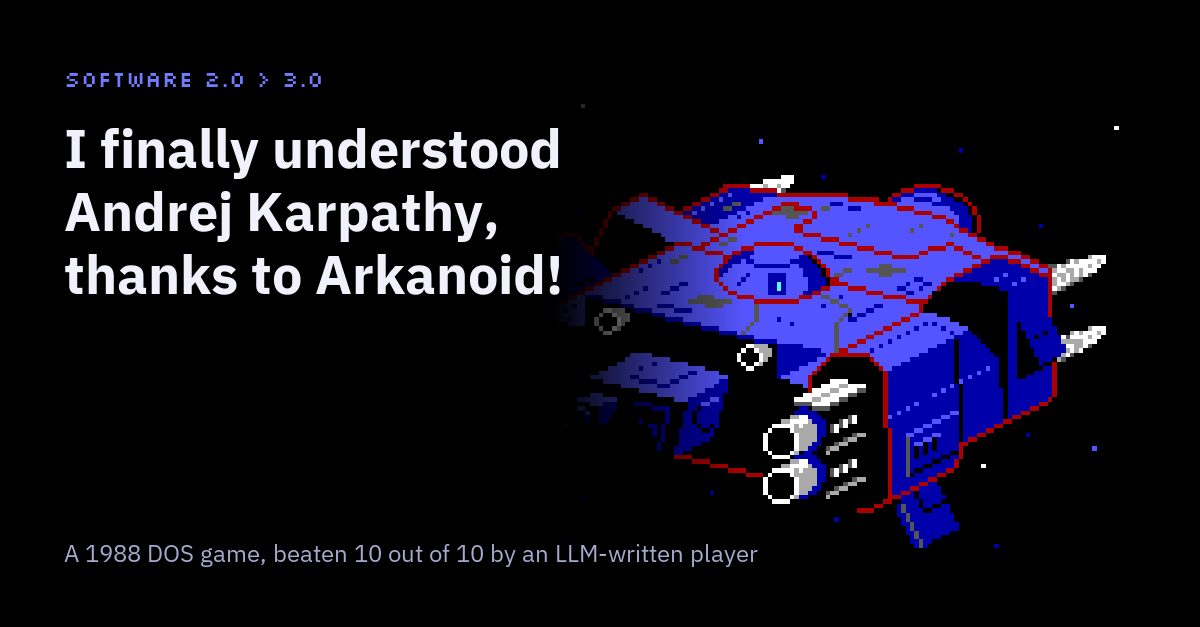
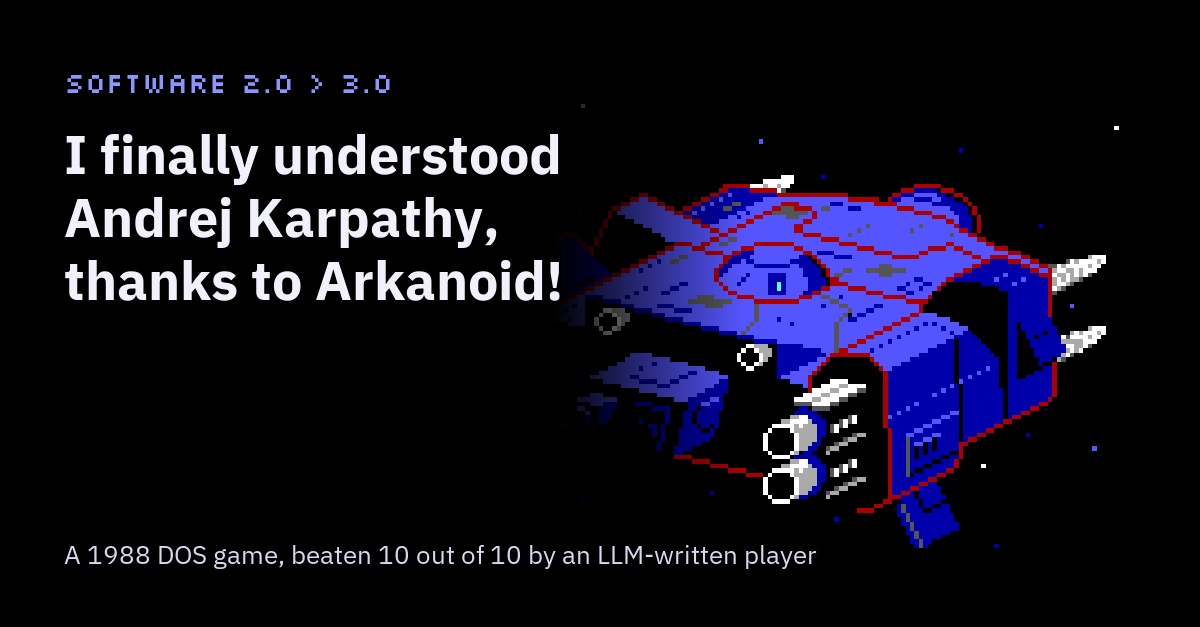
Covers: brighter captions, LLM badge, square 'wrote' cover for the feed
Applies Gemini's legibility review: higher-contrast and larger captions,
a bold LLM badge instead of small pixel text, and a 1080x1080 version of
'Software 3.0 wrote Software 1.0' with the headline for the LinkedIn post.

Claude-Session: https://claude.ai/code/session_01U2d8sNUBfNtSae4DrM3gZD

Changed region(s): [[0.0617, 0.1818, 0.4625, 0.4848], [0.0617, 0.8485, 0.6783, 0.9091], [0.0308, 0.1212, 0.3392, 0.1515]]

diff --git a/docs/article/covers/make_covers.py b/docs/article/covers/make_covers.py
@@ -12,8 +12,8 @@ OUT.mkdir(parents=True, exist_ok=True)
 
 NAVY = (11, 13, 36)
 INK = (240, 241, 250)
-MUTED = (165, 170, 205)
-ACCENT = (110, 124, 255)   # EGA-like blue
+MUTED = (214, 217, 238)
+ACCENT = (138, 150, 255)   # EGA-like blue, lightened for small text
 SECOND = (229, 122, 228)   # EGA-like magenta
 PAPER = (246, 246, 242)
 DARK_INK = (22, 23, 43)
@@ -77,10 +77,10 @@ def cover_final(name, size, headline, kicker, footer, text_w):
     im = Image.composite(Image.new("RGB", size, BG), im, fade)
     d = ImageDraw.Draw(im)
     pad = 64
-    d.text((pad, pad), kicker, font=pixel(22), fill=ACCENT)
-    y = text_block(d, (pad, pad + 48), headline, plex(54 if W > H else 76), text_w, INK)
+    d.text((pad, pad), kicker, font=pixel(28), fill=ACCENT)
+    y = text_block(d, (pad, pad + 54), headline, plex(54 if W > H else 76), text_w, INK)
     fy = H - pad - 26 if W > H else y + 24
-    d.text((pad, fy), footer, font=plex(24 if W > H else 30, b"Regular"), fill=MUTED)
+    d.text((pad, fy), footer, font=plex(26 if W > H else 32, b"Regular"), fill=MUTED)
     im.save(OUT / name)
 
 
@@ -108,32 +108,51 @@ def cover_split(name):
     im.save(OUT / name)
 
 
-def cover_wrote(name):
-    W, H = 1200, 627
-    im = Image.new("RGB", (W, H), NAVY)
+def badge(d, center, text, font):
+    w = d.textlength(text, font=font)
+    cx, cy = center
+    d.rounded_rectangle([cx - w / 2 - 16, cy - font.size * 0.75, cx + w / 2 + 16, cy + font.size * 0.75],
+                        font.size, fill=ACCENT)
+    d.text((cx - w / 2, cy - font.size * 0.62), text, font=font, fill=NAVY)
+
+
+def cover_wrote(name, size=(1200, 627)):
+    W, H = size
+    sq = W == H
+    im = Image.new("RGB", size, NAVY)
     d = ImageDraw.Draw(im)
-    d.text((64, 52), "Software 3.0 wrote Software 1.0", font=plex(52), fill=INK)
+    pad = 64
+    y = text_block(d, (pad, 52 if not sq else 80), "Software 3.0 wrote Software 1.0",
+                   plex(52 if not sq else 78), W - 2 * pad, INK, 1.12)
     # Page with the task.
-    px, py, pw, ph = 64, 170, 300, 360
+    pw, ph = (300, 360) if not sq else (330, 420)
+    px, py = pad, (170 if not sq else y + 70)
     d.rounded_rectangle([px, py, px + pw, py + ph], 10, fill=PAPER)
-    d.text((px + 24, py + 22), "TASK.md", font=pixel(22), fill=ACCENT)
-    text_block(d, (px + 24, py + 62), "Figure out how to play and write a player program.",
-               plex(22, b"SemiBold"), pw - 48, DARK_INK, 1.25)
+    d.text((px + 24, py + 22), "TASK.md", font=pixel(24), fill=(70, 84, 220))
+    text_block(d, (px + 24, py + 64), "Figure out how to play and write a player program.",
+               plex(24, b"SemiBold"), pw - 48, DARK_INK, 1.25)
     for i in range(7):
-        y = py + 190 + i * 22
-        d.line([(px + 24, y), (px + pw - 24 - (i % 3) * 40, y)], fill=(200, 202, 215), width=6)
-    d.text((px, py + ph + 16), "1 page of text", font=plex(22, b"Regular"), fill=MUTED)
-    # Arrow with LLM label.
-    ax0, ax1, ay = px + pw + 40, 700, py + ph // 2
-    d.line([(ax0, ay), (ax1 - 18, ay)], fill=ACCENT, width=6)
-    d.polygon([(ax1, ay), (ax1 - 26, ay - 16), (ax1 - 26, ay + 16)], fill=ACCENT)
-    d.text(((ax0 + ax1) // 2 - 22, ay - 52), "LLM", font=pixel(26), fill=ACCENT)
-    # Game frame played by the plain-code player.
-    fr = Image.open(IMG / "researcher_round18.png").crop((32, 0, 228, 200)).resize((353, 360), Image.NEAREST)
-    fx, fy = 740, py
+        ly = py + ph - 170 + i * 22
+        d.line([(px + 24, ly), (px + pw - 24 - (i % 3) * 40, ly)], fill=(200, 202, 215), width=6)
+    cap = plex(26 if not sq else 30, b"SemiBold")
+    d.text((px, py + ph + 16), "1 page of text", font=cap, fill=MUTED)
+    # Game frame (playfield only) played by the plain-code player.
+    fh = ph
+    fr = Image.open(IMG / "researcher_round18.png").crop((32, 0, 228, 200))
+    fr = fr.resize((int(fr.width * fh / fr.height), fh), Image.NEAREST)
+    fx, fy = W - pad - fr.width, py
     im.paste(fr, (fx, fy))
     d.rectangle([fx - 2, fy - 2, fx + fr.width + 2, fy + fr.height + 2], outline=(60, 64, 110), width=2)
-    d.text((fx, fy + fr.height + 16), "plain code, no LLM: 10 wins of 10", font=plex(22, b"Regular"), fill=MUTED)
+    d.text((fx, fy + fr.height + 16), "plain code, no LLM:", font=cap, fill=MUTED)
+    d.text((fx, fy + fr.height + 16 + int(cap.size * 1.25)), "10 wins of 10", font=cap, fill=INK)
+    # Arrow with an LLM badge.
+    ax0, ax1, ay = px + pw + 24, fx - 24, py + ph // 2
+    d.line([(ax0, ay), (ax1 - 18, ay)], fill=ACCENT, width=6)
+    d.polygon([(ax1, ay), (ax1 - 26, ay - 16), (ax1 - 26, ay + 16)], fill=ACCENT)
+    badge(d, ((ax0 + ax1) // 2, ay - 48), "LLM", plex(28))
+    if sq:
+        text_block(d, (pad, H - 150), "I finally understood Andrej Karpathy, thanks to Arkanoid!",
+                   plex(36, b"SemiBold"), W - 2 * pad, ACCENT, 1.2)
     im.save(OUT / name)
 
 
@@ -148,4 +167,5 @@ cover_final("cover-final-en-square.png", (1080, 1080),
             "SOFTWARE 2.0 > 3.0", "A 1988 DOS game, beaten 10 out of 10", 950)
 cover_split("cover-split-en.png")
 cover_wrote("cover-wrote-en.png")
+cover_wrote("cover-wrote-en-square.png", (1080, 1080))
 print("done")
